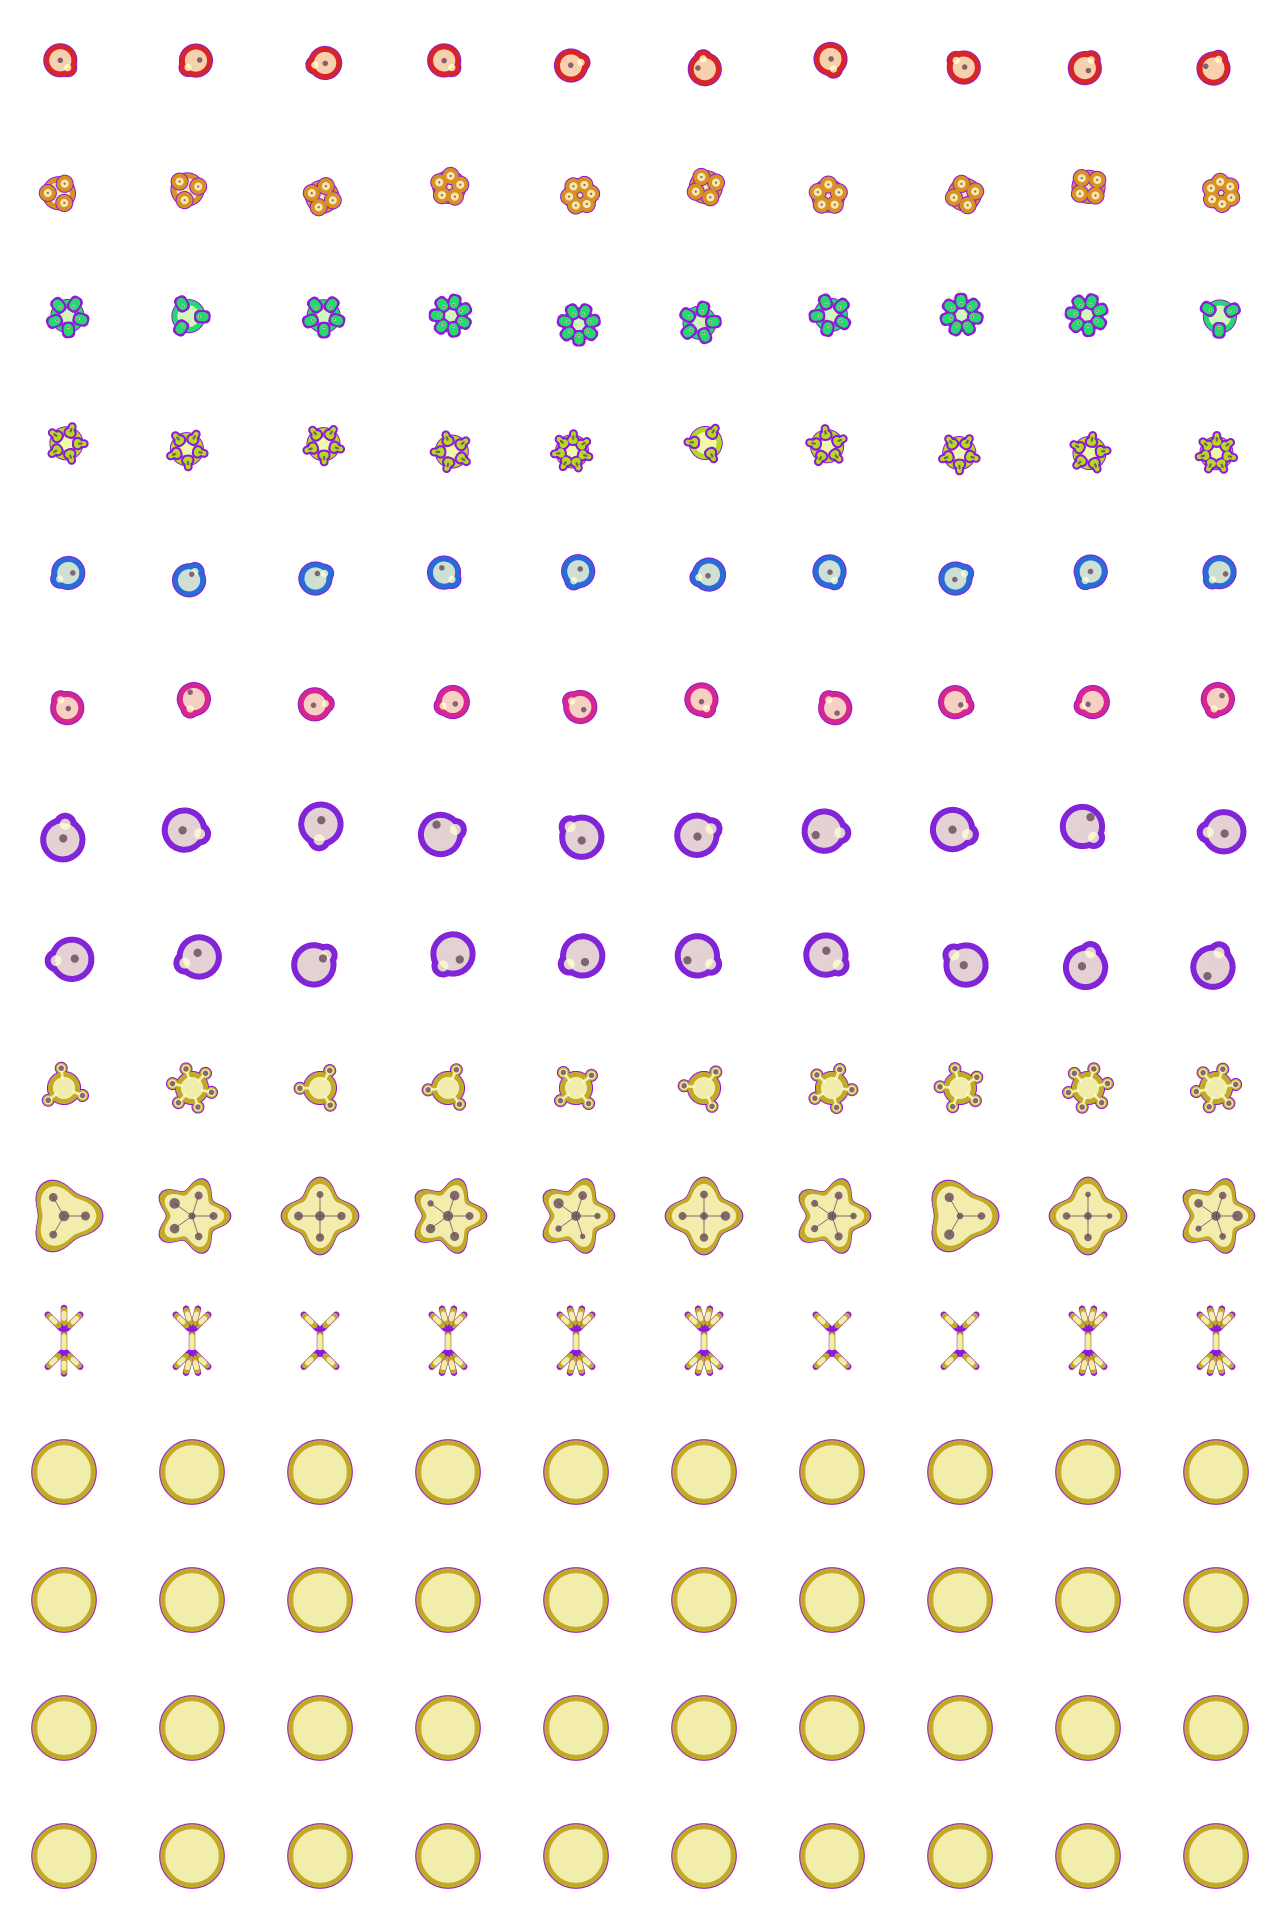
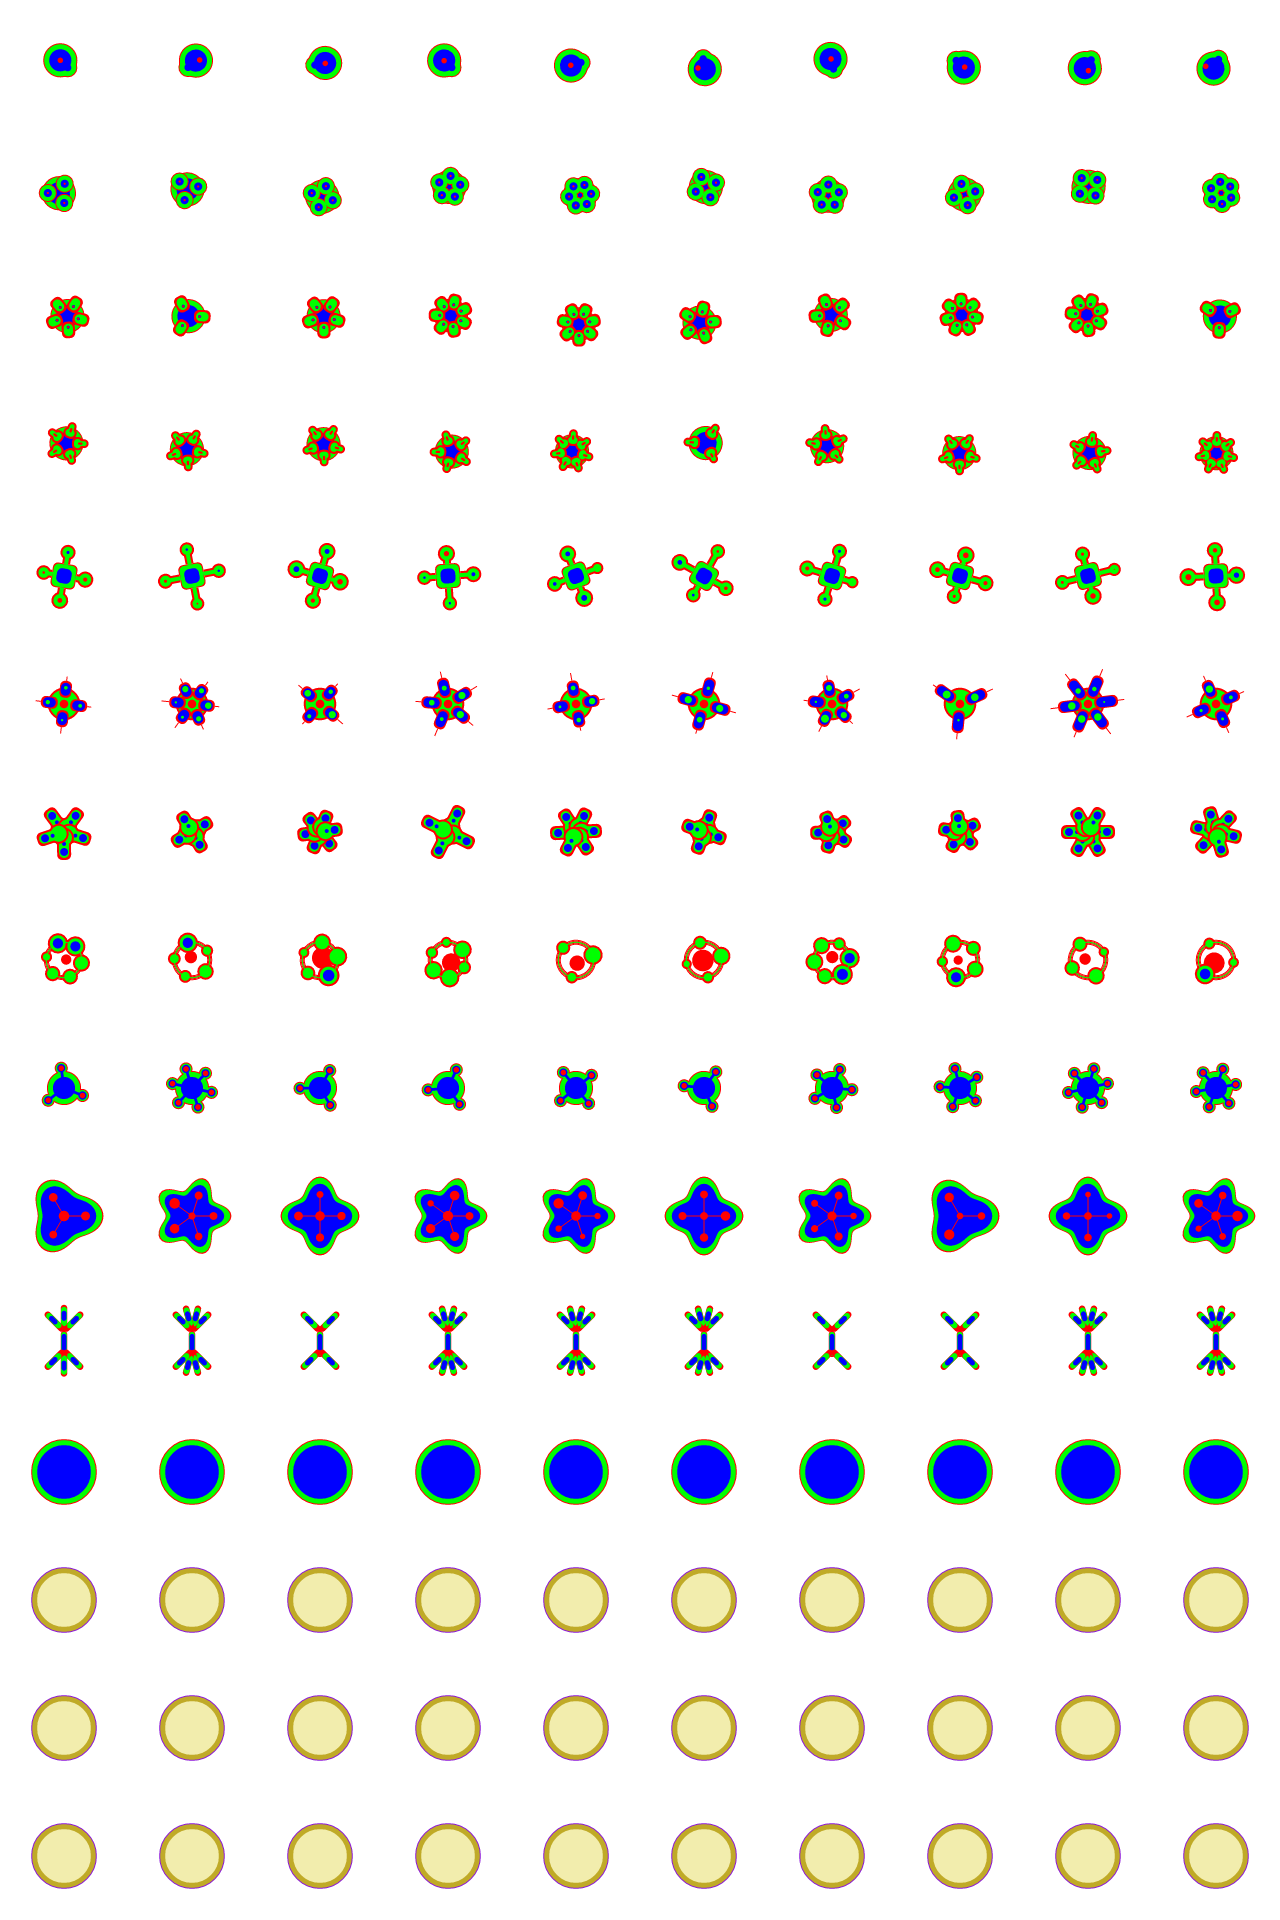
implemented basic agent shader that tweaks colors based on rgb values in texture

diff --git a/src/ucc/data/FakeClient.js b/src/ucc/data/FakeClient.js
@@ -5,6 +5,7 @@ var R = require('ramda');
 var AgentStore = require('../stores/AgentStore');
 var AgentModes = require('../agents/agentModes');
 var Config = require('../../config');
+var rand = require('pex-random');
 
 var students = [
   "student663",
@@ -68,7 +69,7 @@ FakeClient.prototype.genLunchOnAnotherFloor = function() {
   students.forEach(function(id) {
     AgentStore.all.push({
       id: id,
-      programme: Config.agentTypeGroups[0],
+      programme: Config.agentTypeGroups[rand.int(0, 10)],
       end: "2018-01-31 00:00:00.0000000",
       gender: 0,
       age: 25,

diff --git a/src/ucc/agents/cells.js b/src/ucc/agents/cells.js
@@ -4,10 +4,10 @@ var remap  = require('re-map');
 var random = require('pex-random');
 var R      = require('ramda');
 
-var borderColor = [0, 0, 0, 255];
-var primaryColor = [255, 255, 255, 255];
-var fillColor = [255, 0, 0, 255];
-var coreColor = [100, 100, 100, 255];
+var borderColor = [255, 0, 0, 255];
+var primaryColor = [0, 255, 0, 255];
+var fillColor = [0, 0, 255, 255];
+var coreColor = [255, 0, 0, 255];
 
 //-----------------------------------------------------------------------------
 
